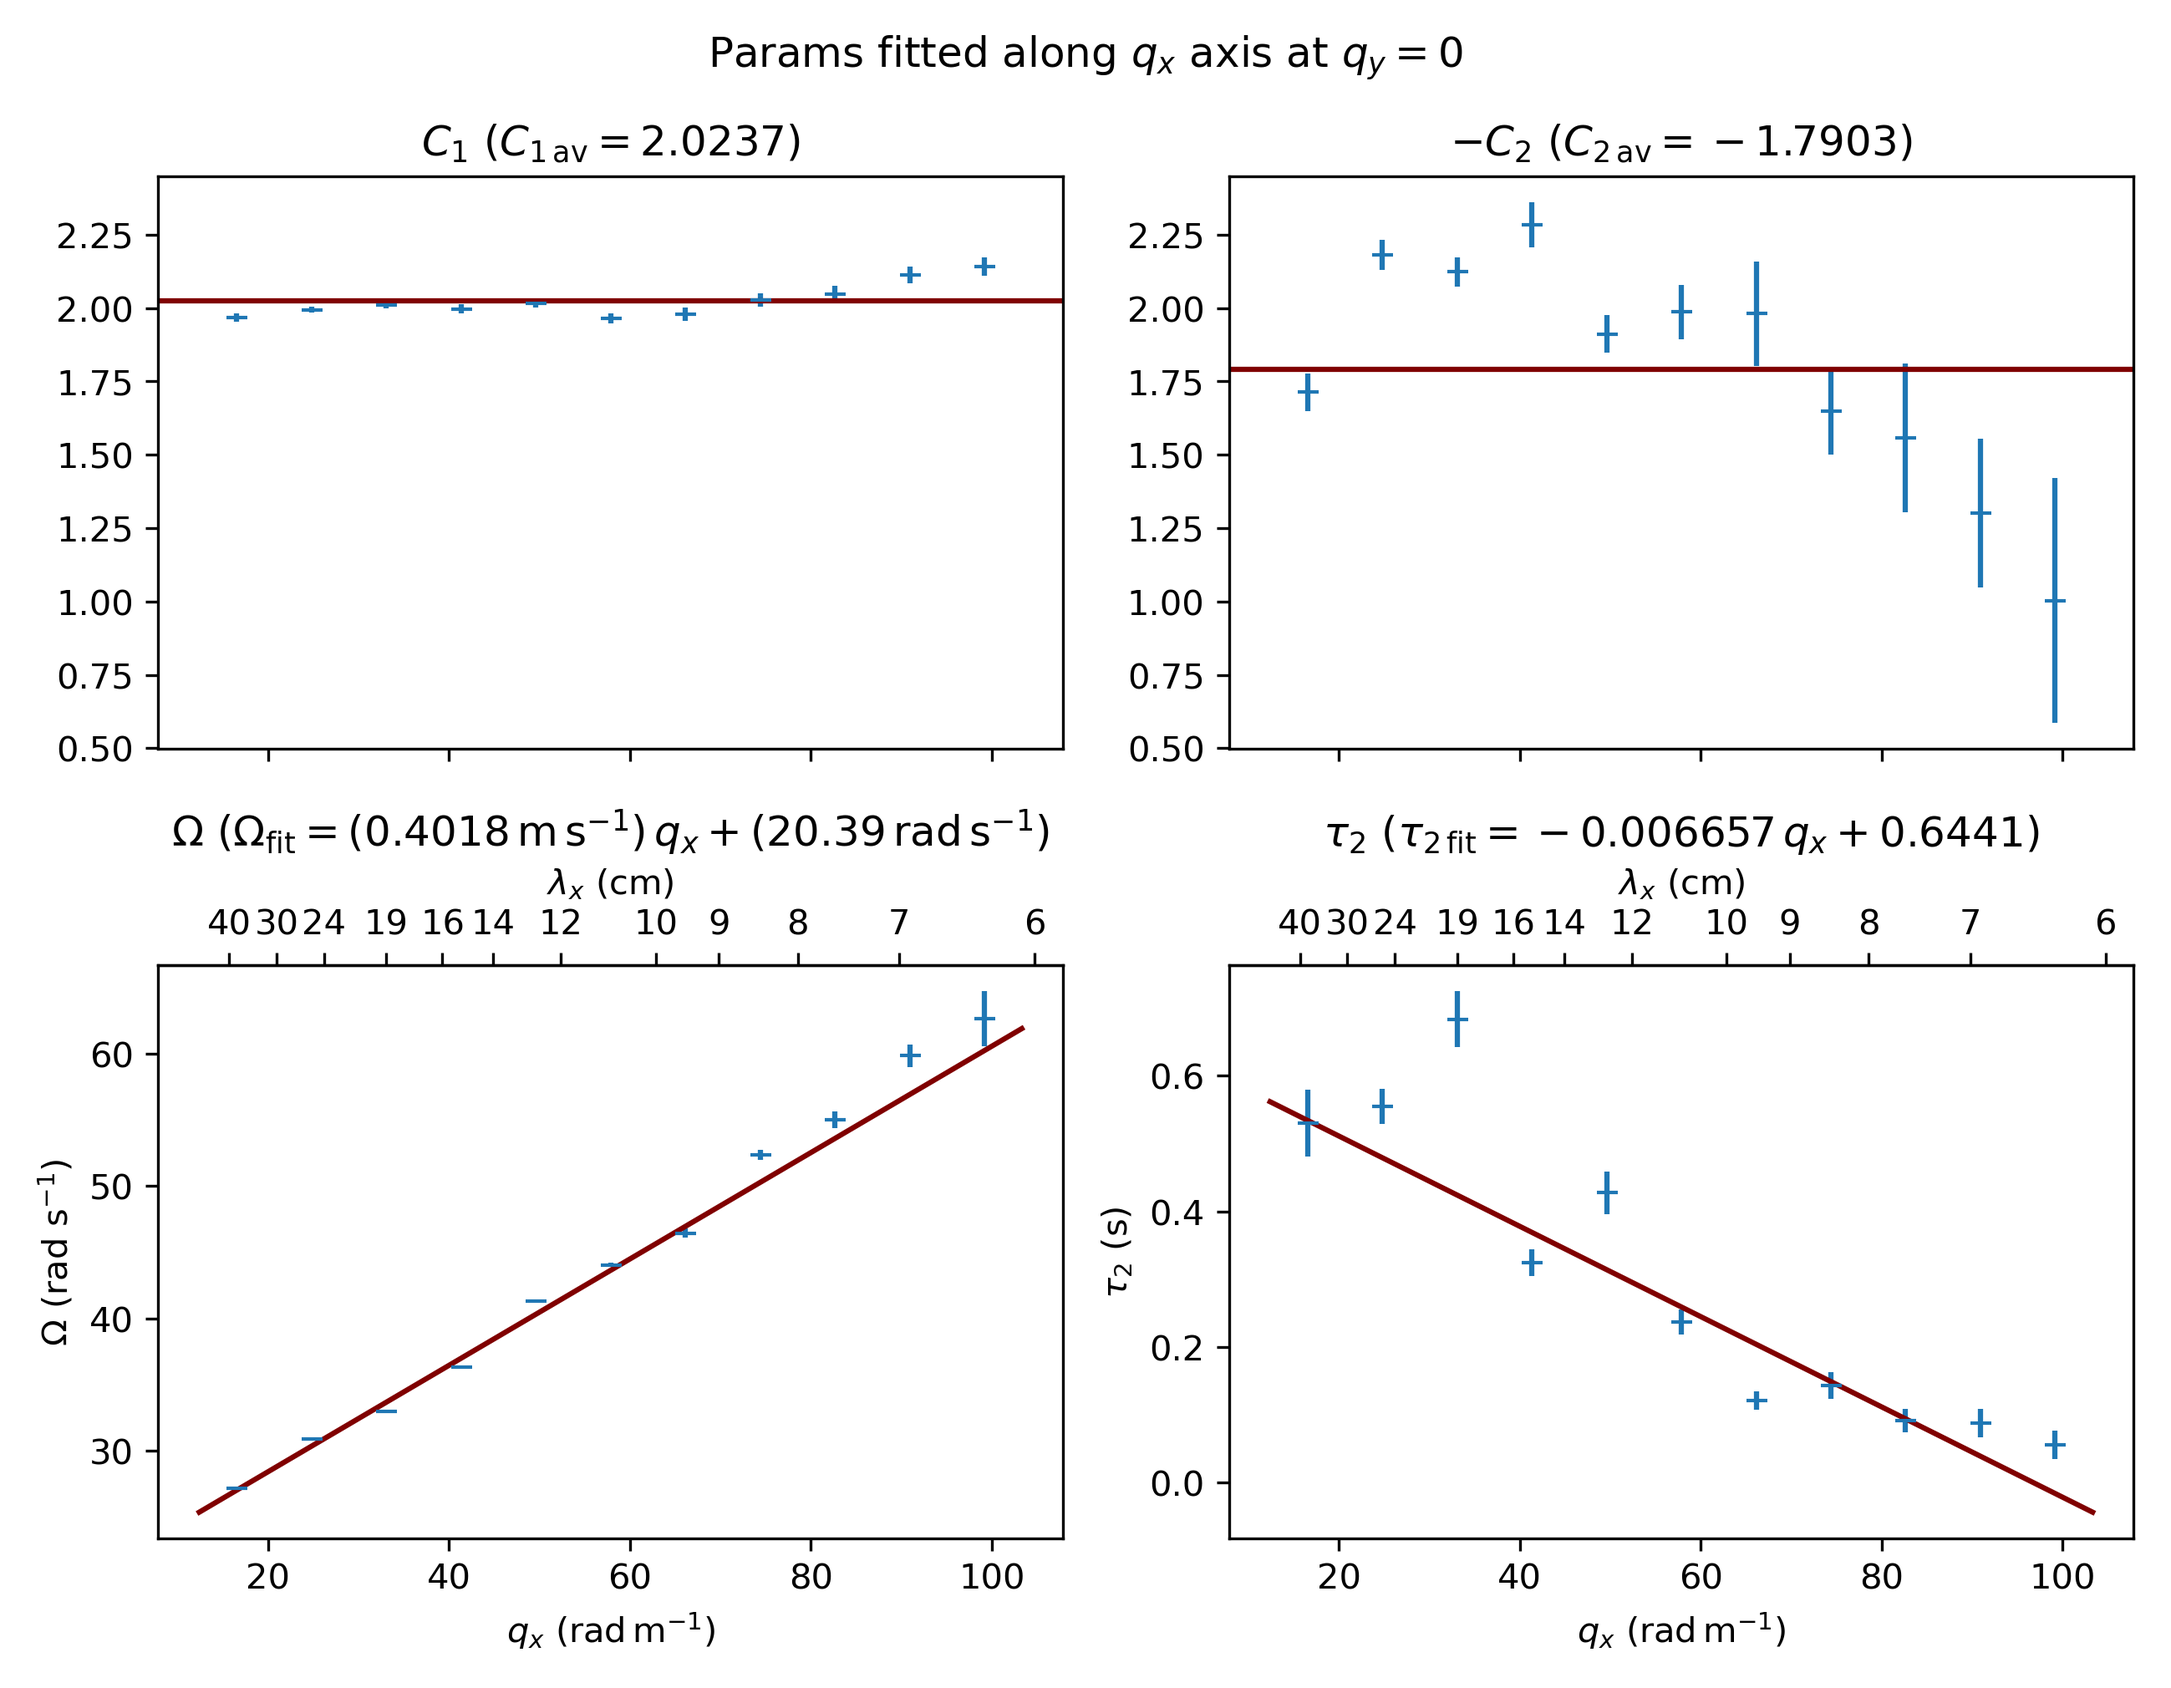
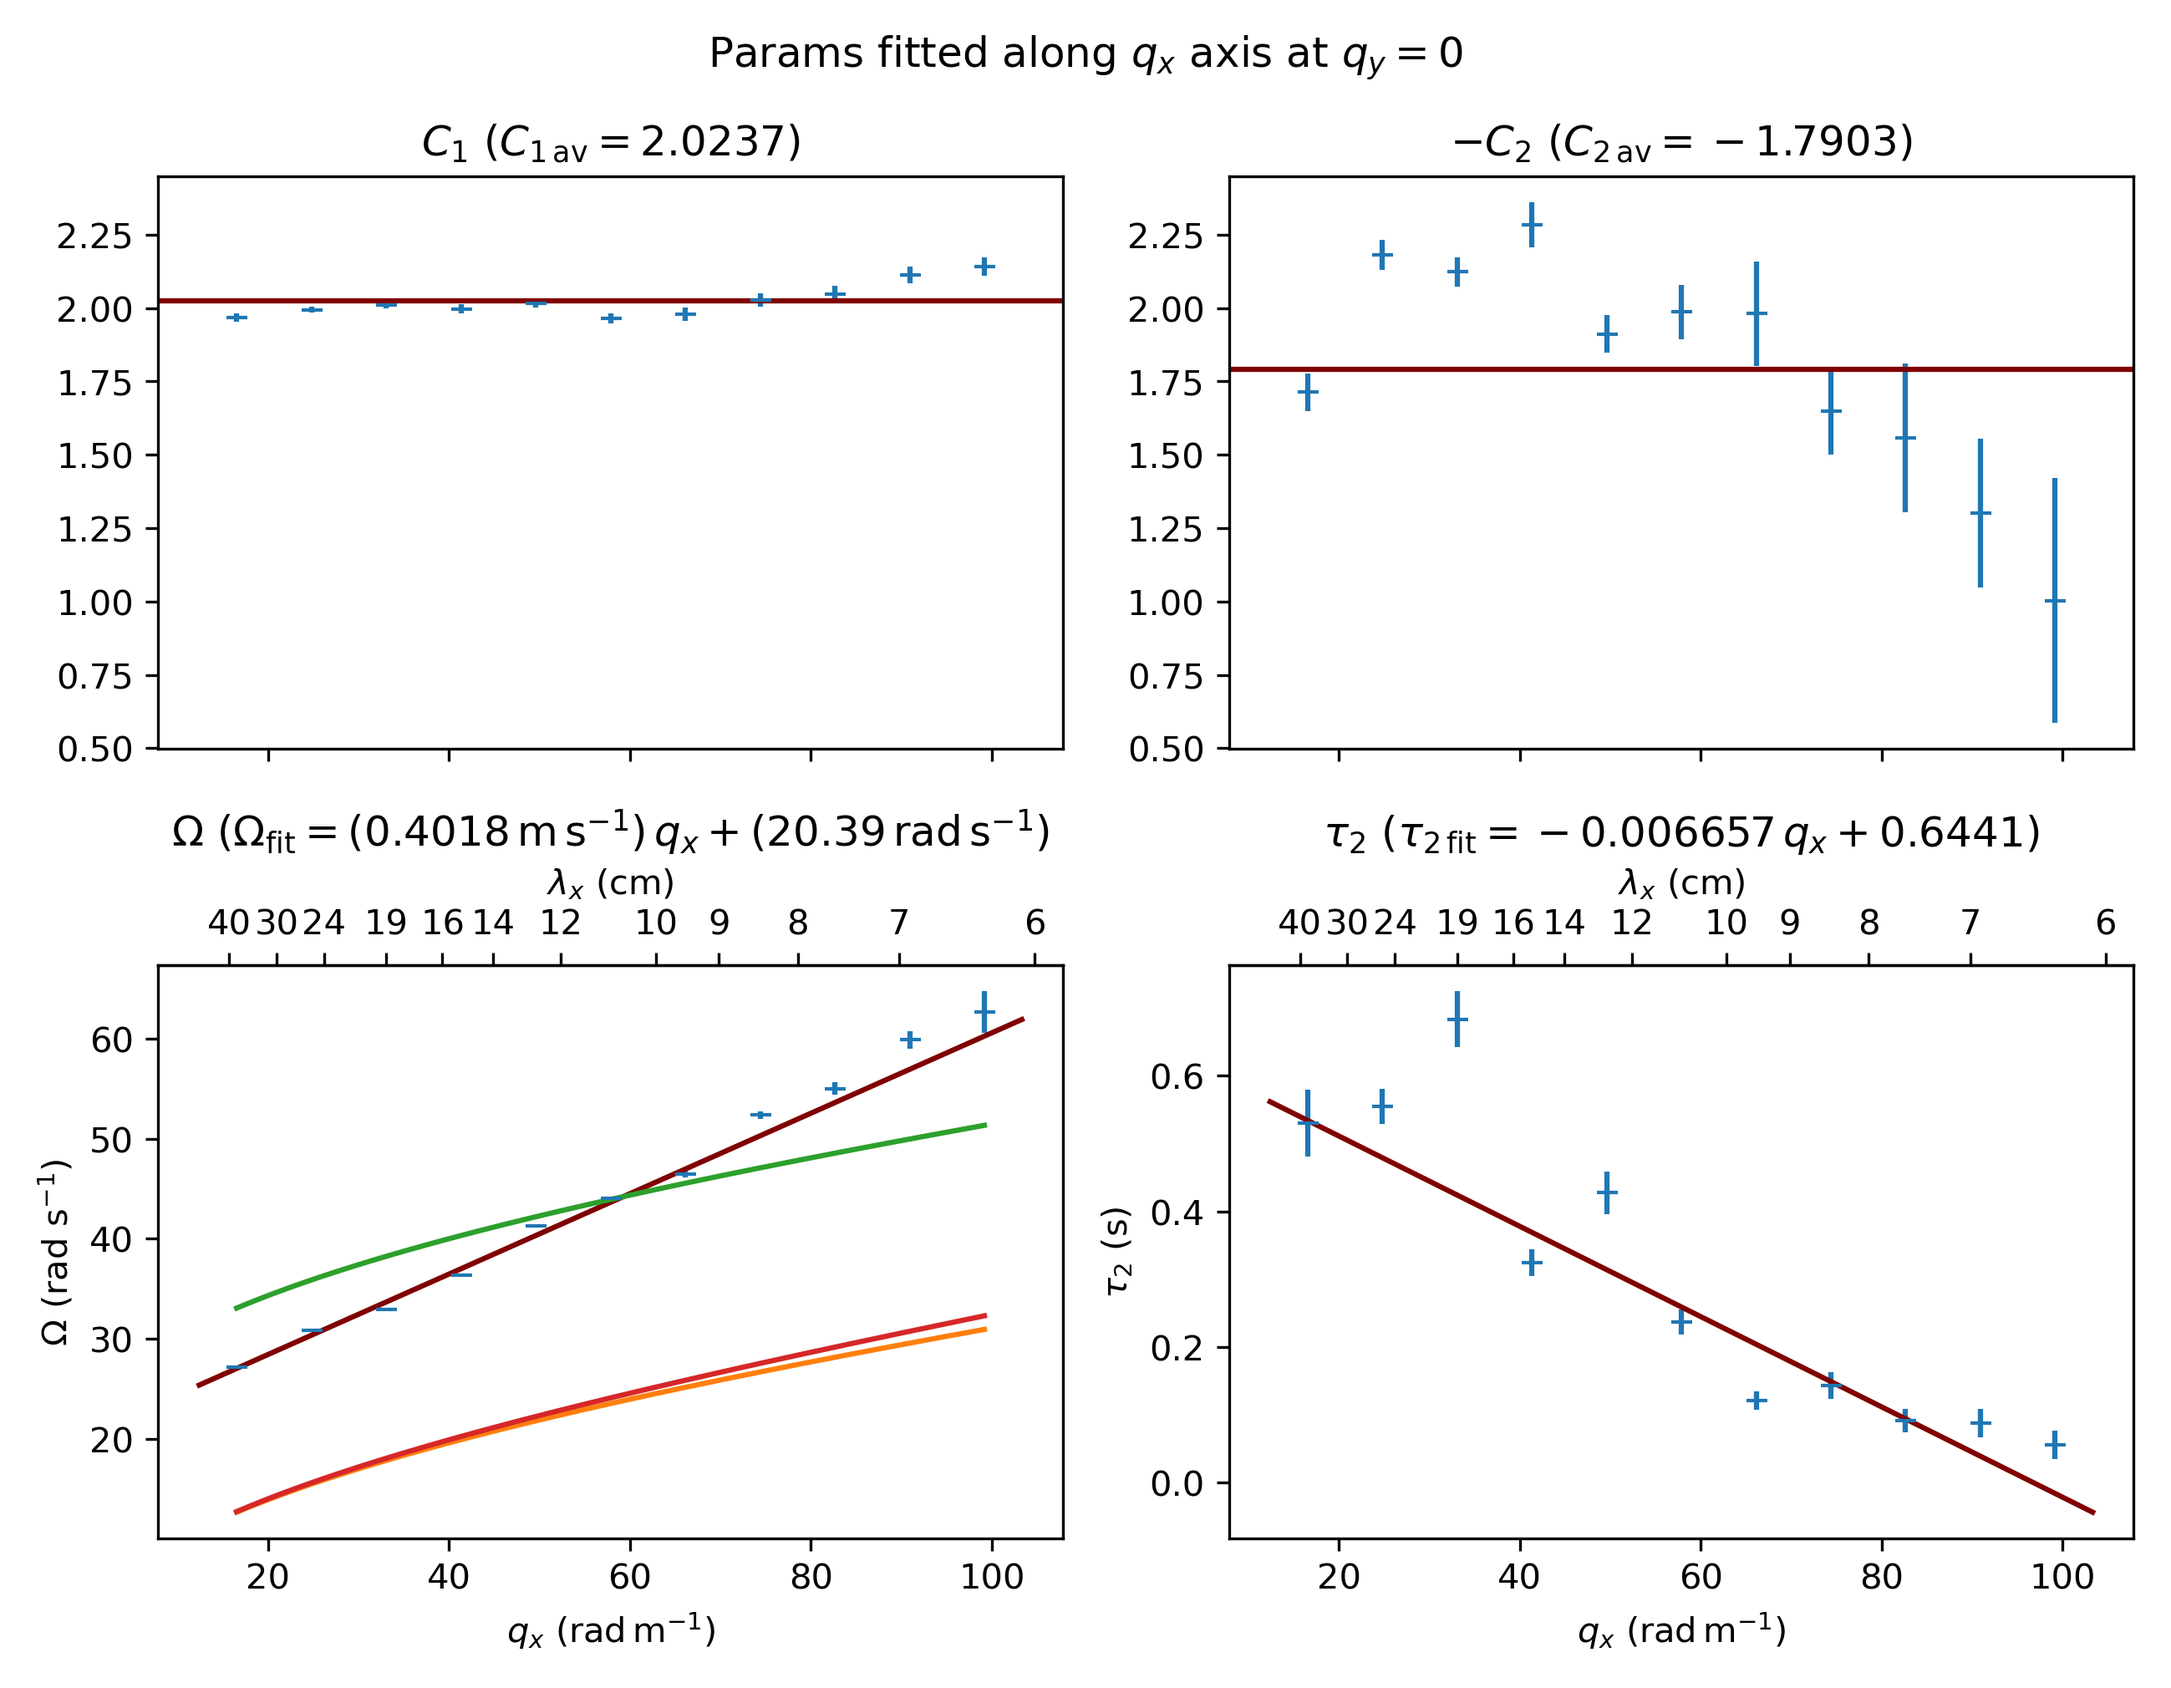
update old try2_taumodel_* plots

diff --git a/plot/try2_taumodel_xaxis.py b/plot/try2_taumodel_xaxis.py
@@ -78,6 +78,28 @@ speed_logical = speed_physical * frame_interval / calibration['calibration_facto
 print(f'physical speed = {speed_physical} {calibration["physical_unit"]}/s')
 print(f'logical speed = {speed_logical:.4} pixels/frame')
 
+# All calculations are in SI
+air_density = 1.225
+water_density = 999.73
+g = 9.81
+water_surface_tension = 7.42e-2
+s = air_density / water_density
+A = g * (1 - s) / (1 + s)
+B = water_surface_tension / (water_density + air_density)
+c1sq = lambda k: A / k + B * k
+wind_speed = 3.
+b_ = -2 * wind_speed * s / (1 + s)
+c_ = wind_speed ** 2 * s / (1 + s)
+def freq_theory(k):
+    return .5 * k * (-b_ + np.sqrt(b_ ** 2 - 4 * (c_ - c1sq(k))))
+freq_space = np.linspace(fit_x[0], fit_x[1], 200) * wavenumber_factor
+freq_thoery_plot = freq_theory(freq_space)
+freq_thoery_plot_b = freq_theory(freq_space) + b
+freq_nowind = np.sqrt(c1sq(freq_space)) * freq_space
+group_velocity = (A + 3 * B * freq_space ** 2) / (2 * freq_nowind)
+print('vg =', np.mean(group_velocity), np.min(group_velocity), np.max(group_velocity))
+freq_group = group_velocity * freq_space
+
 tau2_physical = try2_fit[:, 3] * frame_interval
 tau2_err_physical = try2_fit[:, 7] * frame_interval
 tau2popt, tau2pcov = curve_fit(linear_func, wavenumber_space, tau2_physical,
@@ -97,6 +119,7 @@ first_damping_fit_index = 2
 dampingpopt, dampingpcov = curve_fit(linear_func,
                                      wavenumber_space_log[first_damping_fit_index:],
                                      damping_log[first_damping_fit_index:],
+                                     p0=[2., 1.],
                                      sigma=damping_log_err[first_damping_fit_index:],
                                      jac=linear_jac)
 damping_wavenum_exp, damping_wavenum_coeff_log = tuple(dampingpopt)
@@ -104,6 +127,7 @@ damping_wavenum_coeff = np.exp(damping_wavenum_coeff_log)
 damping_power_fit = damping_wavenum_coeff * np.power(wavenumber_logspace_dense, damping_wavenum_exp)
 print('damping power =', damping_wavenum_exp)
 print('damping power coeff =', damping_wavenum_coeff)
+damping_theory = 2 * 1.307e-6 * np.power(wavenumber_logspace_dense, 2)
 
 
 figwidth_cm = 22
@@ -136,6 +160,10 @@ fitted_line_kwargs = {
 axc1.axhline(c1av, **fitted_line_kwargs)
 axc2.axhline(-c2av, **fitted_line_kwargs)
 axfreq.plot(fit_wavenumber, freq_fit, **fitted_line_kwargs)
+axfreq.plot(freq_space, freq_thoery_plot)
+axfreq.plot(freq_space, freq_thoery_plot_b)
+axfreq.plot(freq_space, freq_nowind)
+axfreq.plot(freq_space, freq_group)
 axtau2.plot(fit_wavenumber, tau2_fit, **fitted_line_kwargs)
 for ax in (axfreq, axtau2):
     ax.set_xlabel(f'$q_x$ (${wavenumber_unit}$)')
@@ -154,6 +182,7 @@ for axdampingrow in axdampings:
         axdampingcell.errorbar(wavenumber_space, damping_physical, damping_err_physical,
                                fmt='_', linestyle='')
         axdampingcell.plot(wavenumber_logspace_dense, damping_power_fit)
+        axdampingcell.plot(wavenumber_logspace_dense, damping_theory)
         axdampingcell.set_xlabel(f'$q_x$ (${wavenumber_unit}$)')
         axdampingcell.set_ylabel('$\\tau_2^{-1}$ ($\\mathrm{s}^{-1}$)')
 for axdampinglogy in (axdampingsemilogy, axdampingloglog):
